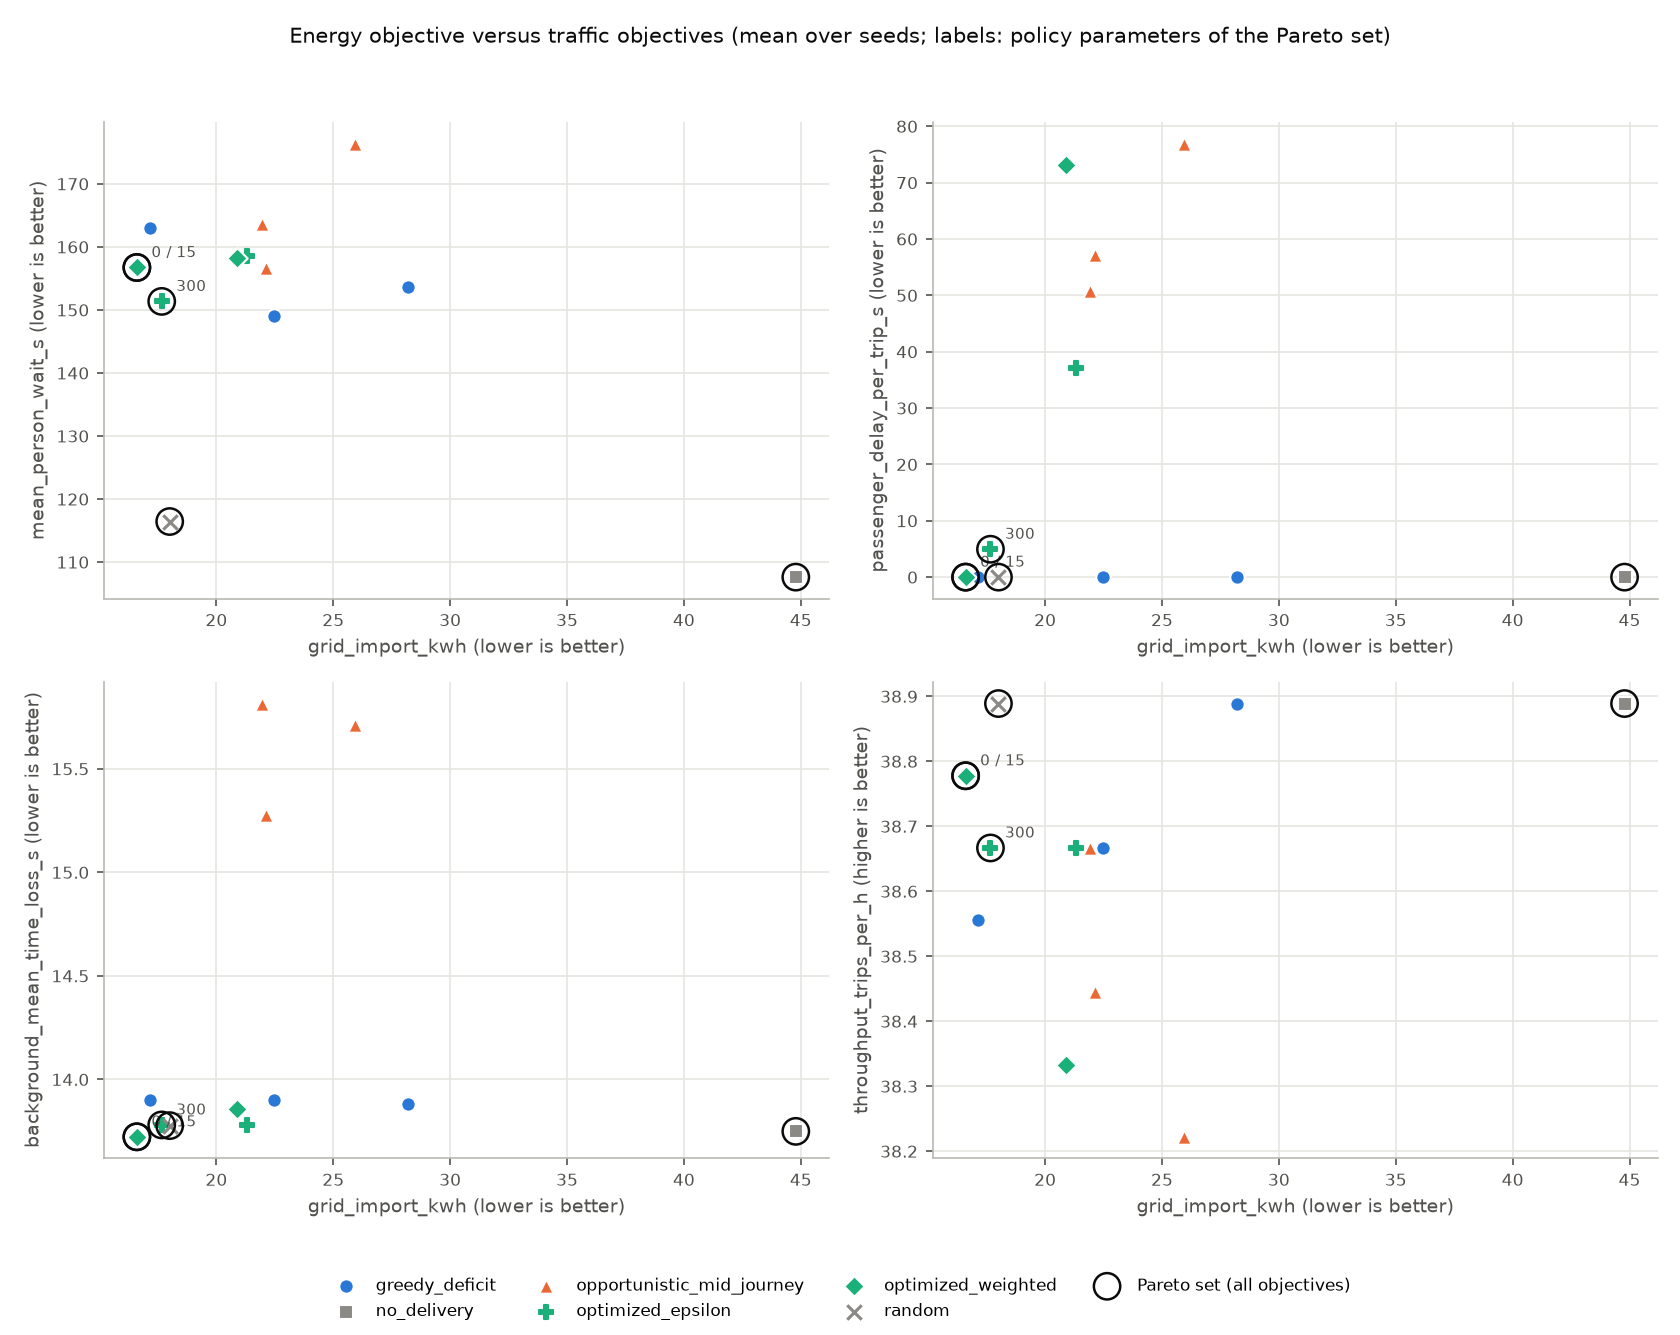
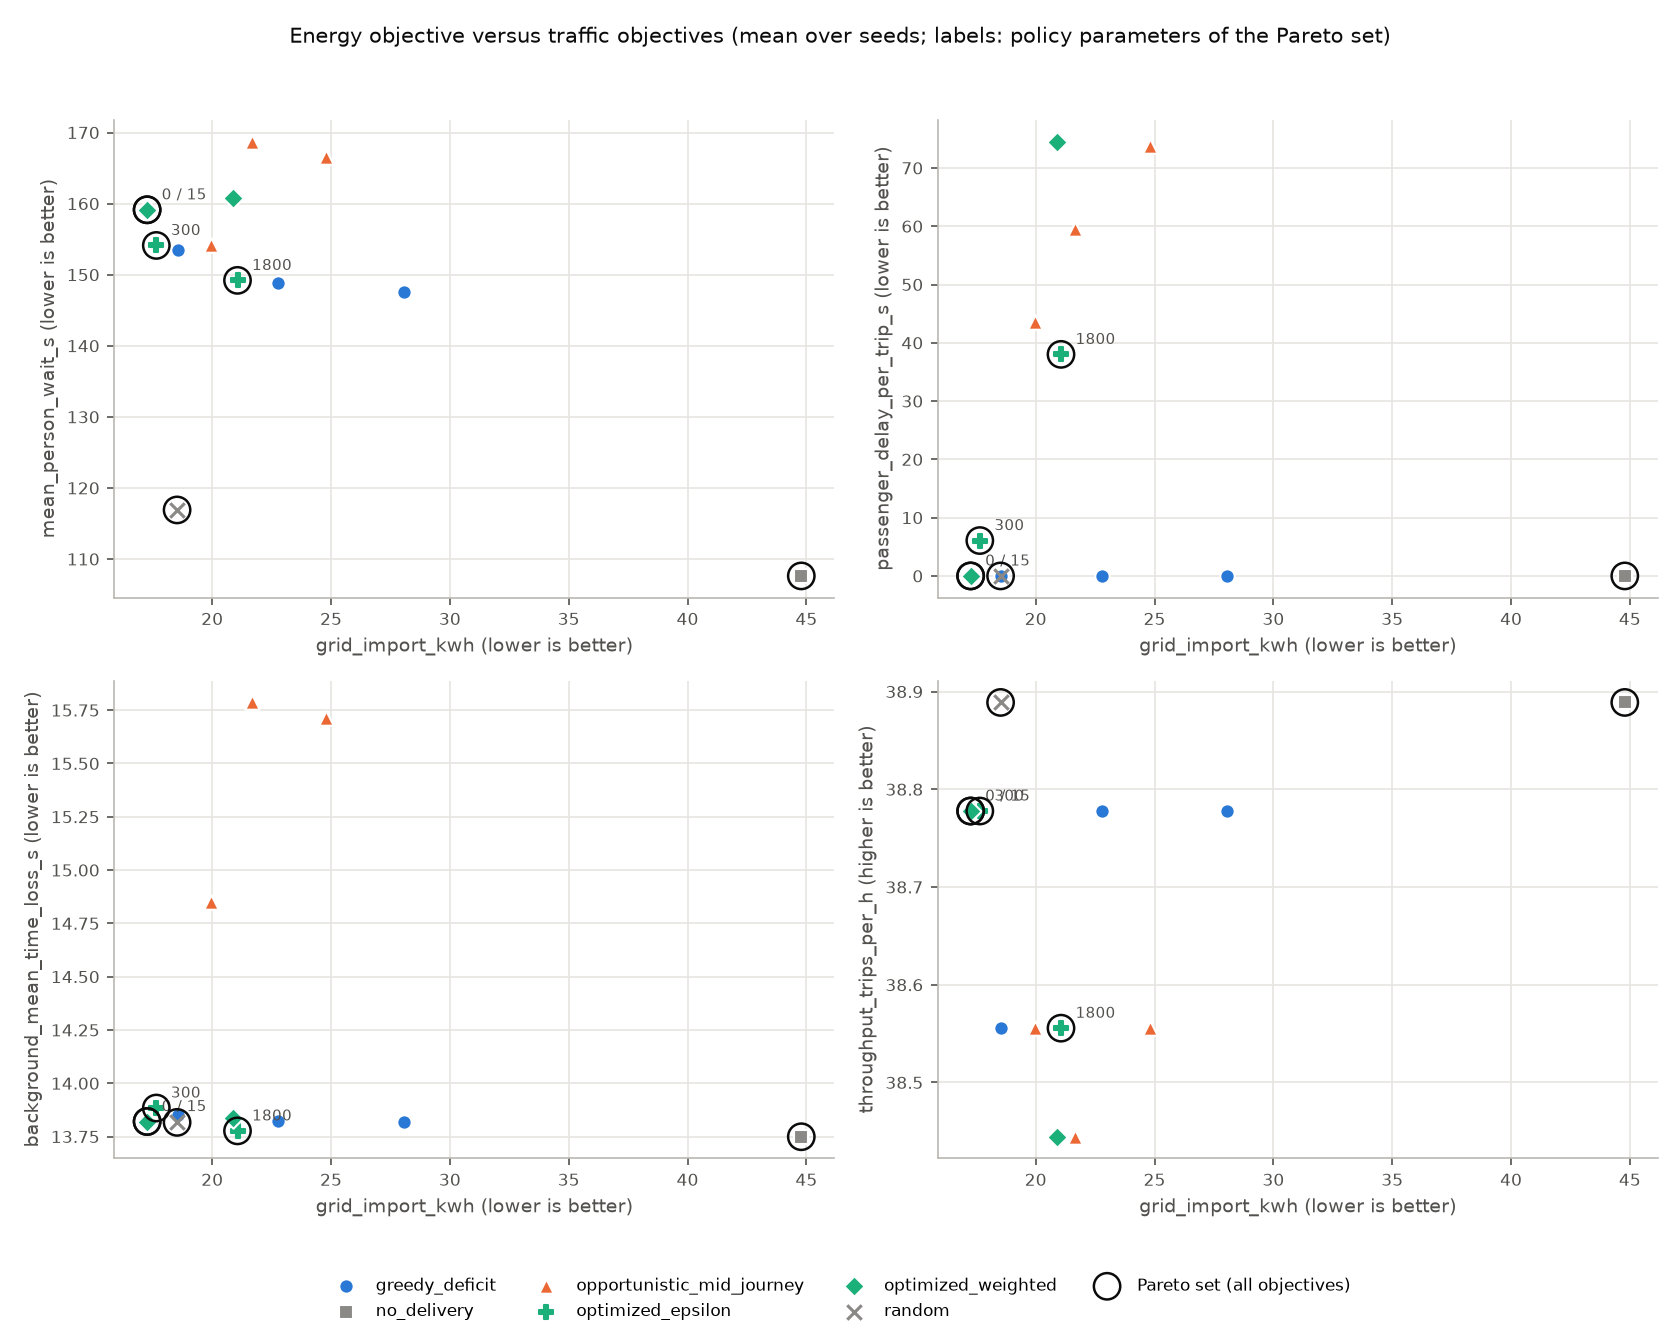
docs: demo results with CityLearn-owned stop timing; energy-model timing and its measured consistency
The README table now comes from a 39-run sweep (3 seeds) with CityLearn's charger session dynamics applying the stop timing; the earlier run with mecosim-owned timing is kept in a labelled section. docs/models.md maps the session parameters to CityLearn's charger attributes and reports the measured agreement, including the bounded effect of whole-step departure countdowns.

diff --git a/README.md b/README.md
@@ -10,9 +10,9 @@ analysis, so that planning choices can be judged "for the greater good" rather t
 ## Why
 
 An automated fleet could move solar energy from PV-rich to PV-poor parts of a city. Whether that helps depends on
-things single-domain models leave out: an automated stop has 77 s without energy flow (robotic coupling 24 s,
-communication start-up 27 s, set-point delay 4 s, decoupling 22 s), small deliveries pay that overhead proportionally
-more, passengers on board are delayed, curbside stops block lanes, and each vehicle must keep enough energy to finish
+things single-domain models leave out: an automated stop has about 73 s without energy flow (robotic coupling 24 s,
+communication start-up 27 s, decoupling 22 s, plus a 4 s set-point delay where it does not overlap with the start-up),
+small deliveries pay that overhead proportionally more, passengers on board are delayed, curbside stops block lanes, and each vehicle must keep enough energy to finish
 its trip. mecosim makes those trade-offs explicit and measurable:
 
 - a **session model** with cited phase timings, closed-form energy over any interval and the exact inverse ("how long
@@ -60,7 +60,7 @@ Details: [docs/architecture.md](docs/architecture.md), [docs/models.md](docs/mod
 ```bash
 python -m venv .venv && . .venv/bin/activate          # Windows: .venv\Scripts\activate
 pip install eclipse-sumo
-pip install "citylearn @ git+https://github.com/M-Colley/CityLearn@feat/external-mobility-provider"
+pip install "citylearn @ git+https://github.com/M-Colley/CityLearn@feat/charger-session-dynamics"
 pip install -e ".[dev]"                                 # or ".[rl,analysis]"
 mecosim info
 
@@ -75,8 +75,9 @@ python examples/two_zone_demo/run_demo.py --reference
 python examples/two_zone_demo/make_table.py examples/two_zone_demo/output
 ```
 
-CityLearn needs the external-mobility hook (branch `feat/external-mobility-provider`) until it is released. On Windows,
-CityLearn's dataset cache can be redirected with `WIN_PD_OVERRIDE_LOCAL_APPDATA`.
+CityLearn needs the external-mobility hook and, for realistic stop timing, the charger session dynamics (branch
+`feat/charger-session-dynamics`, which contains the hook) until they are released. On Windows, CityLearn's dataset
+cache can be redirected with `WIN_PD_OVERRIDE_LOCAL_APPDATA`.
 
 Python API:
 
@@ -91,13 +92,66 @@ print(result.metrics["grid_import_kwh"], result.metrics["passenger_delay_per_tri
 
 ## Demo results
 
-Run of `python examples/two_zone_demo/run_demo.py --jobs 4` (CityLearn backend, 18 November 2026; regenerate the
-table with `make_table.py`). Scenario: 6 × 6 grid with 250 m blocks, 8 automated taxis (60 kWh, 11 kW bidirectional,
-initial SOC 0.6), 40 ride requests per hour, 900 background vehicles per hour, 3 hours (11:00–14:00 of 6 August in
-CityLearn's `citylearn_challenge_2022_phase_all_plus_evs` data, resampled to 60 s). West zone: Buildings 1–5 with four
-times their PV; east zone: Buildings 6–13 without PV. One off-street depot (4 plugs) in the west, one off-street and one
-curbside hub (2 plugs each) in the east. Each zone is netted as an energy community; zones are not netted with each
-other (fully netted, the district would import nothing because the west exports more than the east consumes).
+Run of `python examples/two_zone_demo/run_demo.py --jobs 4` (CityLearn with charger session dynamics, branch
+`feat/charger-session-dynamics` 8f2f1c1c; 18 November 2026; table via `make_table.py`). Stop timing is applied by
+CityLearn's session dynamics with mecosim's cited parameters (`timing_owner: auto` resolves to `energy_model`):
+51 s start-up, 4 s set-point delay, 3.35/3.31 kW/s ramps, 22 s stop delay; mecosim plans stop durations with the same
+semantics (1 kWh at 11 kW: 400 s, 5 kWh: 1709 s).
+
+Scenario: 6 × 6 grid with 250 m blocks, 8 automated taxis (60 kWh, 11 kW bidirectional, initial SOC 0.6), 40 ride
+requests per hour, 900 background vehicles per hour, 3 hours (11:00–14:00 of 6 August in CityLearn's
+`citylearn_challenge_2022_phase_all_plus_evs` data, resampled to 60 s). West zone: Buildings 1–5 with four times their
+PV; east zone: Buildings 6–13 without PV. One off-street depot (4 plugs) in the west, one off-street and one curbside
+hub (2 plugs each) in the east. Each zone is netted as an energy community; zones are not netted with each other
+(fully netted, the district would import nothing because the west exports more than the east consumes).
+
+| Policy | Grid import (kWh) | Emissions (kg CO2) | Deficit served (kWh) | Delivered (kWh) | Charged (kWh) | Trips/h | Wait (s) | Energy-stop delay per trip (s) | Background time loss (s) | Delivery vkm | Pareto |
+|---|---|---|---|---|---|---|---|---|---|---|---|
+| greedy_deficit (delivery_kwh=1) | 28.1 ± 1.3 | 4.86 ± 0.22 | 16.7 ± 1.3 | 16.7 ± 1.3 | 58.5 ± 1.7 | 38.8 ± 0.2 | 148 ± 3 | 0 ± 0 | 13.8 ± 0.0 | 79.1 ± 6.6 |  |
+| greedy_deficit (delivery_kwh=2) | 22.8 ± 0.0 | 3.95 ± 0.00 | 22.0 ± 0.0 | 22.0 ± 0.0 | 61.3 ± 0.1 | 38.8 ± 0.2 | 149 ± 8 | 0 ± 0 | 13.8 ± 0.1 | 71.3 ± 2.9 |  |
+| greedy_deficit (delivery_kwh=5) | 18.6 ± 0.6 | 3.22 ± 0.10 | 26.2 ± 0.6 | 26.2 ± 0.6 | 60.3 ± 1.3 | 38.6 ± 0.2 | 153 ± 2 | 0 ± 0 | 13.9 ± 0.2 | 63.0 ± 6.3 |  |
+| no_delivery | 44.8 ± 0.0 | 7.75 ± 0.00 | 0.0 ± 0.0 | 0.0 ± 0.0 | 0.0 ± 0.0 | 38.9 ± 0.2 | 108 ± 4 | 0 ± 0 | 13.7 ± 0.2 | 0.0 ± 0.0 | yes |
+| opportunistic_mid_journey (delivery_kwh=1) | 24.8 ± 0.7 | 4.29 ± 0.13 | 20.0 ± 0.7 | 20.8 ± 1.1 | 54.9 ± 9.6 | 38.6 ± 0.2 | 167 ± 15 | 74 ± 3 | 15.7 ± 0.9 | 71.4 ± 9.3 |  |
+| opportunistic_mid_journey (delivery_kwh=2) | 21.7 ± 2.8 | 3.75 ± 0.49 | 23.1 ± 2.8 | 24.8 ± 4.4 | 57.5 ± 6.4 | 38.4 ± 0.2 | 169 ± 3 | 60 ± 2 | 15.8 ± 0.2 | 66.0 ± 7.6 |  |
+| opportunistic_mid_journey (delivery_kwh=5) | 20.0 ± 0.7 | 3.46 ± 0.11 | 24.8 ± 0.7 | 25.5 ± 0.4 | 59.7 ± 3.0 | 38.6 ± 0.2 | 154 ± 7 | 44 ± 4 | 14.9 ± 0.6 | 67.4 ± 10.4 |  |
+| optimized_epsilon (epsilon_delay_s_per_h=0) | 17.3 ± 1.4 | 2.99 ± 0.25 | 27.5 ± 1.4 | 27.5 ± 1.4 | 62.5 ± 1.4 | 38.8 ± 0.2 | 159 ± 7 | 0 ± 0 | 13.8 ± 0.1 | 59.5 ± 5.6 | yes |
+| optimized_epsilon (epsilon_delay_s_per_h=1800) | 21.1 ± 1.4 | 3.65 ± 0.25 | 23.7 ± 1.4 | 23.7 ± 1.4 | 59.9 ± 0.9 | 38.6 ± 0.2 | 149 ± 10 | 38 ± 1 | 13.8 ± 0.1 | 70.4 ± 5.6 | yes |
+| optimized_epsilon (epsilon_delay_s_per_h=300) | 17.6 ± 0.8 | 3.06 ± 0.14 | 27.1 ± 0.8 | 27.1 ± 0.8 | 61.1 ± 0.7 | 38.8 ± 0.2 | 154 ± 3 | 6 ± 1 | 13.9 ± 0.2 | 57.4 ± 3.4 | yes |
+| optimized_weighted (value_of_time_per_h=0) | 20.9 ± 0.2 | 3.62 ± 0.04 | 23.9 ± 0.2 | 23.9 ± 0.2 | 59.2 ± 4.2 | 38.4 ± 0.4 | 161 ± 6 | 75 ± 3 | 13.8 ± 0.2 | 67.3 ± 8.2 |  |
+| optimized_weighted (value_of_time_per_h=15) | 17.3 ± 1.4 | 2.99 ± 0.25 | 27.5 ± 1.4 | 27.5 ± 1.4 | 62.5 ± 1.4 | 38.8 ± 0.2 | 159 ± 7 | 0 ± 0 | 13.8 ± 0.1 | 59.5 ± 5.6 | yes |
+| random | 18.5 ± 2.1 | 3.20 ± 0.36 | 26.3 ± 2.1 | 35.9 ± 6.9 | 14.5 ± 3.6 | 38.9 ± 0.2 | 117 ± 5 | 0 ± 0 | 13.8 ± 0.1 | 23.5 ± 1.6 | yes |
+
+Mean ± standard deviation over 3 seeds.
+
+"Pareto" marks the non-dominated configurations for grid import, emissions, mean wait, energy-stop delay per trip,
+background time loss (minimised) and throughput (maximised). Delivered and charged energies are CityLearn's AC
+energies at the hub chargers.
+
+![Pareto plot of the demo sweep](docs/img/two_zone_demo_pareto.png)
+
+What the numbers say for this scenario (not a general result):
+
+- Carrying PV energy to the PV-poor zone cut its grid import from 44.8 to 17.3 kWh (−61 %) with the MILP policy at
+  nearly equal throughput (38.8 versus 38.9 trips per hour) and no passenger delay from energy stops, but passengers
+  waited 51 s longer on average (159 versus 108 s) because vehicles were withdrawn from service while delivering.
+- Delivery size matters: fixed 1 kWh deliveries left 28.1 kWh of import, fixed 5 kWh deliveries 18.6 kWh. With 73 s
+  without energy flow per stop (start-up and decoupling), small deliveries spend a large share of each stop on
+  overhead.
+- Mid-journey stops with passengers cost 44–74 s of delay per completed trip and, with the curbside hub, 1.2–2.1 s more
+  time loss for background traffic, while importing more than idle-vehicle deliveries. With a value of time of 15 per
+  hour the MILP chose no mid-journey stops; ε budgets of 300 and 1800 s of passenger delay per hour led to 6 and 38 s
+  per trip with higher import (17.6 and 21.1 kWh): short mid-journey stops occupy plugs and the zone power cap that
+  longer idle-vehicle deliveries would have used.
+- The random baseline is on the Pareto set because it withdraws few vehicles at a time (lowest wait among delivering
+  policies, 117 s), but it discharged 35.9 kWh while charging only 14.5 kWh: it draws down the fleet's batteries,
+  which no objective here penalises (see limitations).
+
+<details>
+<summary>Earlier run, labelled: timing applied by mecosim (CityLearn without session dynamics)</summary>
+
+Same scenario and sweep, run with branch `feat/external-mobility-provider` only (no charger session dynamics); mecosim
+shaped the energy per interval with its own session model (anticipated stop, first set-point delayed: 1 kWh at 11 kW
+took 408 s). Mean ± standard deviation over 3 seeds; Pareto set recomputed for the six objectives above.
 
 | Policy | Grid import (kWh) | Emissions (kg CO2) | Deficit served (kWh) | Delivered (kWh) | Charged (kWh) | Trips/h | Wait (s) | Energy-stop delay per trip (s) | Background time loss (s) | Delivery vkm | Pareto |
 |---|---|---|---|---|---|---|---|---|---|---|---|
@@ -117,27 +171,9 @@ other (fully netted, the district would import nothing because the west exports 
 
 Mean ± standard deviation over 3 seeds.
 
-Mean ± standard deviation over 3 seeds; "Pareto" marks the non-dominated configurations for grid import, emissions,
-mean wait, energy-stop delay per trip, background time loss (minimised) and throughput (maximised). Delivered and
-charged energies are CityLearn's AC energies at the hub chargers.
+![Pareto plot, mecosim-owned timing](docs/img/two_zone_demo_pareto_mecosim_timing.png)
 
-![Pareto plot of the demo sweep](docs/img/two_zone_demo_pareto.png)
-
-What the numbers say for this scenario (not a general result):
-
-- Carrying PV energy to the PV-poor zone cut its grid import from 44.8 to 16.6 kWh (−63 %) with the MILP policy at
-  equal throughput (38.8 versus 38.9 trips per hour) and no passenger delay from energy stops, but passengers waited
-  49 s longer on average (157 versus 108 s) because vehicles were withdrawn from service while delivering.
-- Delivery size matters: fixed 1 kWh deliveries left 28.2 kWh of import, fixed 5 kWh deliveries 17.1 kWh. With
-  77 s of zero-power time per stop, small deliveries spend a large share of each stop on overhead.
-- Mid-journey stops with passengers cost 51–77 s of delay per completed trip and, with the curbside hub, about 2 s
-  more time loss for background traffic, while importing more than idle-vehicle deliveries. With a value of time of
-  15 per hour the MILP chose no mid-journey stops; ε budgets of 300 and 1800 s of passenger delay per hour led to 5 and
-  37 s per trip with higher import (17.7 and 21.3 kWh), because short mid-journey stops occupy plugs and the zone power
-  cap that longer idle-vehicle deliveries would have used.
-- The random baseline is on the Pareto set because it withdraws few vehicles at a time (lowest wait among delivering
-  policies), but it discharged 35.1 kWh while charging only 14.4 kWh: it draws down the fleet's batteries, which no
-  objective here penalises (see limitations).
+</details>
 
 ## Policies
 
@@ -171,7 +207,8 @@ that mimics the bridge; CARLA itself was not run.
 ## Limitations
 
 - **CARLA not run**: the integration follows CARLA's bridge source and is tested with a stub client only.
-- **CityLearn hook unreleased**: requires the `feat/external-mobility-provider` branch; CI installs it from git.
+- **CityLearn features unreleased**: requires the `feat/charger-session-dynamics` branch (external-mobility hook plus
+  session dynamics); CI installs it from git.
 - **Data resolution**: CityLearn datasets are hourly; mecosim holds intensive values and splits energies within each
   hour (hourly totals preserved, no intra-hour variability). Zones are energy communities without internal grid
   constraints. Zone-deficit forecasts handed to policies use a nominal COP of 3 for thermal demand.
@@ -182,8 +219,13 @@ that mimics the bridge; CARLA itself was not run.
   profile with `chargeDelay` (no ramps).
 - **Assumed values**: the wireless and pantograph coupling presets, the consumption prior (0.20 kWh/km), the reserve
   margin and factor, and all objective and welfare weights are assumptions; sweep them.
-- **Delivery accuracy**: with CityLearn's efficiency curves the measured AC energy of a delivery matches the requested
-  energy within 1 % (tests); the residual comes from evaluating the curve at per-interval average power.
+- **Timing**: by default CityLearn's charger session dynamics apply the stop timing (start delay, set-point delay,
+  ramps, stop delay) with mecosim's cited parameters, and mecosim plans stop durations with the same semantics.
+  CityLearn stores whole-step departure countdowns, so its dynamics learn the stop instant only in the departure step:
+  deliveries stay exact (measured within −0.13 % to +0.10 % of the planned energy, discharge floor), but a 1 kWh
+  charge received 14.5 Wh (60 s steps) to 38.9 Wh (15 s steps) more than planned. A fractional countdown in CityLearn
+  would remove this (requested; see docs/models.md). Without session dynamics (`timing_owner: mecosim`) the measured
+  energy of a delivery is within 1 % of the request.
 - **No terminal-SOC valuation**: the objectives do not value the fleet's energy at the end of the horizon, so policies
   that discharge without recharging (e.g. `random` in the demo) look better than they are; compare charged and
   delivered energy, or extend the horizon.

diff --git a/docs/models.md b/docs/models.md
@@ -77,6 +77,55 @@ The linear model never underestimates the stop time, so MILP plans never violate
 the linearisation. It assumes constant `P` during the hold; SOC-dependent power limits of the energy model (CityLearn's
 `capacity_power_curve`) are not part of it.
 
+### Who applies the timing: mecosim or the energy model
+
+`energy.timing_owner` selects where phases 2-6 are applied (`auto`, the default, picks `energy_model` when CityLearn has
+charger session dynamics, branch `feat/charger-session-dynamics`, and `mecosim` otherwise):
+
+- **`energy_model`**: CityLearn's external chargers get the session timings 1:1 (`charger_dynamics_attributes`):
+
+  | mecosim (`SessionParameters`) | CityLearn charger attribute |
+  |---|---|
+  | `coupling_s + startup_s` (24 + 27 s) | `start_delay_seconds` (51 s) |
+  | `setpoint_delay_s` (4 s) | `setpoint_delay_seconds` |
+  | `ramp_up_kw_per_s`, `ramp_down_kw_per_s` (3.35, 3.31 kW/s) | `ramp_up_kw_per_second`, `ramp_down_kw_per_second` |
+  | `decoupling_s` (22 s) | `stop_delay_seconds` |
+
+  mecosim sends a constant set-point (± the session power) and, per step, the plug-in offset
+  (`connected_since_seconds = -(arrival - step start)` when the session starts), the end offset
+  (`connected_seconds = min(step, departure - step start)`) and the departure countdown. Stop durations are planned with
+  the same parameters in CityLearn's semantics (`SessionParameters.energy_model_semantics()`): each step's command is
+  applied 4 s after the step starts, which overlaps with the 51 s start-up, so the first set-point adds no delay; at
+  `departure - stop_delay_seconds` the set-point becomes 0 and the power ramps down *after* that instant. With these
+  semantics the stop duration is `51 + 22 + E/P + P/2 (1/r_up - 1/r_down)` for `E ≥ E_tri` (1 kWh at 11 kW:
+  400.3 s instead of 407.6 s with mecosim's anticipated stop), and the MILP's linear stop time
+  (`O = fixed + max(P/2 (1/r_up - 1/r_down), P r_up⁻² / (2 (1/r_up + 1/r_down)))`) overestimates the exact time by at
+  most 0.82 s at 11 kW and never underestimates it.
+- **`mecosim`**: the chargers have no dynamics; mecosim integrates its own profile per interval and sends the interval
+  energy as an average power over the connected seconds (sections 2-3).
+
+Consistency, measured in this repository:
+
+- `tests/test_session_vs_citylearn_dynamics.py` steps CityLearn's integrator (`citylearn.internal.charger_dynamics.
+  integrate_step`) with the same timings and a session starting mid-step: for 0.4, 1, 2.5 and 5 kWh at 11 kW, 60 s and
+  15 s steps and three arrival offsets, every interval's energy equals mecosim's plan within 1e-9 kWh **when CityLearn
+  knows the exact departure**.
+- CityLearn stores whole-step departure countdowns (countdown 1 = leaves at the end of the step); the exact departure is
+  known only in the departure step, through `connected_seconds`. When the stop instant (departure − 22 s) falls in an
+  earlier step (always with 15 s steps; with 60 s steps when the departure lies in the first 22 s of a step, 37 % of
+  arrival offsets), CityLearn keeps
+  the set-point until the departure step and ramps down from its start. Over 60 arrival offsets this adds on average
+  12 Wh (60 s steps) and 23 Wh (15 s steps), at most 62 Wh and 46 Wh, to the integrator's energy; the bound is full
+  power between the true stop instant and the start of the departure step plus one ramp-down.
+- End to end (orchestrator, scripted mobility, CityLearn, `tests/test_citylearn_session_dynamics.py`): deliveries stay
+  exact because the session's discharge floor stops the battery at the planned energy: measured AC energy within
+  −0.13 % to +0.10 % of E for all eight cases, and no energy after the planned end of the transfer (residual below
+  0.1 Wh). Charging has no such cap: a 1 kWh charge received 14.5 Wh (60 s steps) and 38.9 Wh (15 s steps) more than
+  planned.
+- Requested CityLearn change: accept and store a fractional departure countdown (or a departure time in seconds), so
+  that the session dynamics stop exactly; mecosim already passes the exact value
+  (`CityLearnBackend.allow_fractional_departure`).
+
 ## 3. Trip reserve and exact delivery
 
 Mid-journey discharge must leave a trip reserve (`mecosim.core.reserve`):

diff --git a/docs/architecture.md b/docs/architecture.md
@@ -58,7 +58,10 @@ The energy step is the master step (60 s in the demo). CityLearn calls the orche
       with the step's time;
    4. **write**: for every hub plug, `connect` (with `connected_seconds`, arrival SOC for a new session,
       `departure_steps`, `discharge_soc_floor`), `incoming` or `away`; `set_vehicle_soc` for all other fleet vehicles.
-3. The driver turns the orchestrator's per-charger energy targets into CityLearn actions for the next `env.step`.
+3. The driver turns the orchestrator's per-charger targets into CityLearn actions for the next `env.step`: with
+   `timing_owner="energy_model"` (default when CityLearn has charger session dynamics) a constant set-point that
+   CityLearn shapes with start delay, set-point delay, ramps and stop delay; with `timing_owner="mecosim"` the
+   interval energy of mecosim's session profile as an average power over the connected seconds.
 
 Mobility therefore leads energy by one interval: arrivals and departures inside an interval are known before its
 energy is computed, and energy is integrated exactly over the connected part of the interval.

diff --git a/CONTRIBUTING.md b/CONTRIBUTING.md
@@ -7,7 +7,7 @@ Thanks for helping. mecosim is research software; correctness and traceability m
 ```bash
 python -m venv .venv && . .venv/bin/activate        # Windows: .venv\Scripts\activate
 pip install eclipse-sumo
-pip install "citylearn @ git+https://github.com/M-Colley/CityLearn@feat/external-mobility-provider"  # optional
+pip install "citylearn @ git+https://github.com/M-Colley/CityLearn@feat/charger-session-dynamics"  # optional
 pip install -e ".[dev]"
 pytest -q
 ruff check . && ruff format --check .
